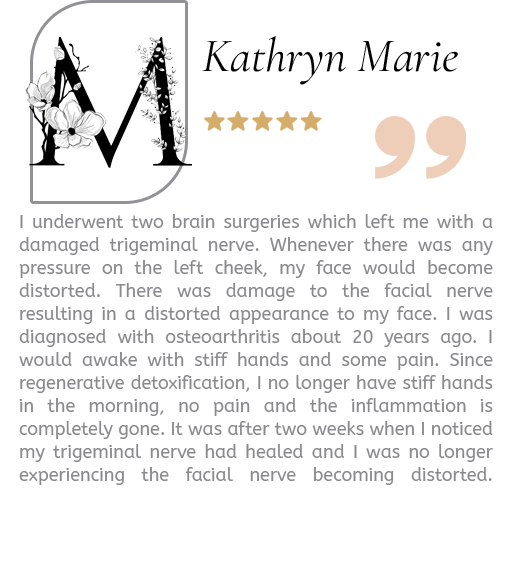
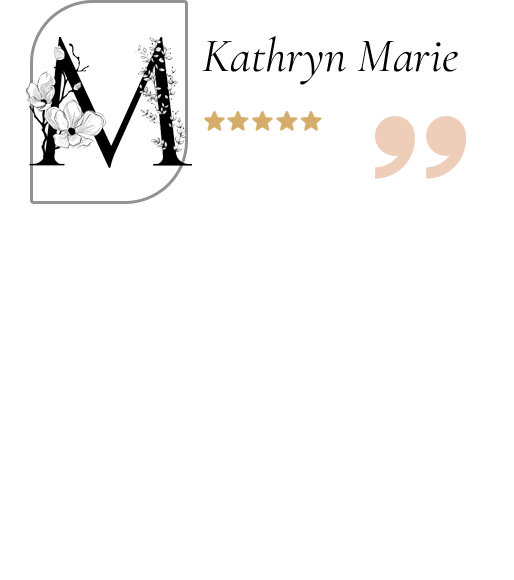
updates

Changed region(s): [[0.0311, 0.3724, 0.965, 0.8379]]

diff --git a/index.html b/index.html
@@ -210,7 +210,7 @@
                                 
                         <div style="flex-direction: column; justify-content: flex-start; align-items: flex-start; display: flex">
                             <div style="flex-direction: column; justify-content: flex-start; align-items: flex-start; display: flex">
-                                <div style="color: #D5AD6B; font-size: 42px; font-family: Cormorant; font-style: italic; font-weight: 300; line-height: 0px; word-wrap: break-word">Holistic healer</div>
+                                <div style="color: #D5AD6B; font-size: 3.5em; font-family: Cormorant; font-style: italic; font-weight: 300; line-height: 0px; word-wrap: break-word">Holistic healer</div>
                                 <div class="website-name" style="color: #1C1C1E; font-size: 100px; font-family: Cormorant; font-weight: 300; text-transform: uppercase; line-height: 141px; word-wrap: break-word">Joliane</div>
                             </div>
                             <div><p style="color:#1c1c1e">Welcome to the next part of your journey. I’m delighted to share and to be a part of your own healing transformation journey!</p>
@@ -435,7 +435,7 @@ From this foundation, I delved further into the depths of metaphysics, quantum p
                       </div>
                     </div>
                     <div class="row justify-content-md-center">
-                          <div class="col-12 text-center" style="color:#8A8A8E">
+                          <div class="col-12 text-center">
                             <p>The layers of a human being is as if viewing the complexities of a computer and its connectivity; the "Hardware," "Software," "Power Supply," and "WiFi Connection." Most practitioners specialize in one or two areas, yet I firmly believe true healing involves addressing all the facets that make you, you. 
                             - the physical body, the emotions, the chakras, the energy, the spirit, and beyond.</p>
                             
@@ -521,7 +521,7 @@ From this foundation, I delved further into the depths of metaphysics, quantum p
                           </div>
                         </div>
                         <div class="row justify-content-md-center">
-                              <div class="col-12 text-center" style="color:#8A8A8E">
+                              <div class="col-12 text-center">
                                   <p>Lorem ipsum dolor sit amet, consectetur adipiscing elit, sed do eiusmod tempor incididunt ut labore et dolore magna aliqua. Ut enim ad minim veniam, quis nostrud exercitation ullamco laboris nisi ut aliquip ex ea commodo consequat.</p>
                               </div>
                         </div>
@@ -529,8 +529,12 @@ From this foundation, I delved further into the depths of metaphysics, quantum p
                         <div class="row mb-5 justify-content-md-center">
                             <div class="col-lg-4 p-2">
                               
-    
-                                <img src="https://jolianemock.vercel.app/images/section7/kathryn-marie.png" width="100%"/>
+                                <div style="background: url(https://jolianemock.vercel.app/images/section7/kathryn-marie.png)">
+                                      <p>
+                                        I underwent two brain surgeries which left me with a damaged trigeminal nerve. Whenever there was any pressure on the left cheek, my face would become distorted. There was damage to the facial nerve resulting in a distorted appearance to my face. I was diagnosed with osteoarthritis about 20 years ago. I would awake with stiff hands and some pain. Since regenerative detoxification, I no longer have stiff hands in the morning, no pain and the inflammation is completely gone. It was after two weeks when I noticed my trigeminal nerve had healed and I was no longer experiencing the facial nerve becoming distorted.
+                                      </p>  
+                                </div>
+                                <img src="" width="100%"/>
                             </div>
                             <div class="col-lg-4 p-2">
                                 <img src="https://jolianemock.vercel.app/images/section7/kathy-sanderson.png" width="100%"/>
